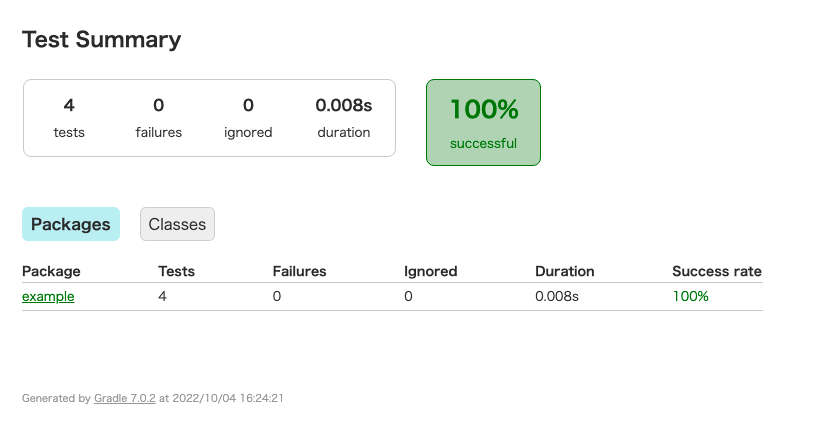
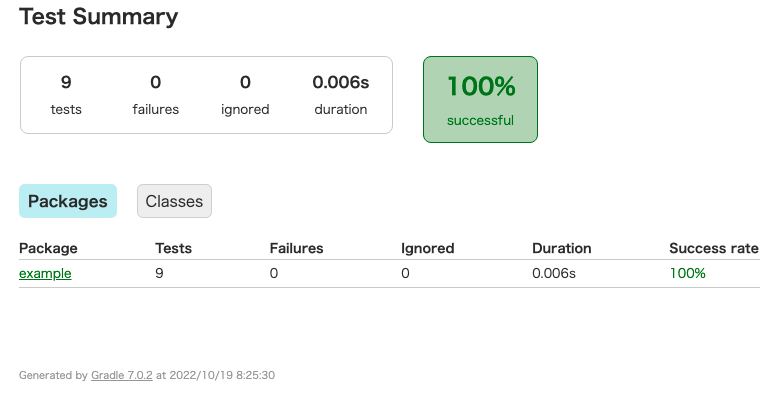
fix test

diff --git a/gradle/src/test/java/example/File0Test.java b/gradle/src/test/java/example/File0Test.java
@@ -1,0 +1,13 @@
+package example;
+
+import org.junit.Test;
+
+import static org.hamcrest.CoreMatchers.*;
+import static org.junit.Assert.*;
+
+public class File0Test {
+    @Test
+    public void calc() {
+        assertThat(new File0().calc(3, 4, 5), is(12));
+    }
+}

diff --git a/gradle/src/test/java/example/File1Test.java b/gradle/src/test/java/example/File1Test.java
@@ -1,0 +1,13 @@
+package example;
+
+import org.junit.Test;
+
+import static org.hamcrest.CoreMatchers.*;
+import static org.junit.Assert.*;
+
+public class File1Test {
+    @Test
+    public void calc() {
+        assertThat(new File1().calc(3, 4, 5), is(12));
+    }
+}

diff --git a/gradle/src/test/java/example/DB0Test.java b/gradle/src/test/java/example/DB0Test.java
@@ -1,0 +1,13 @@
+package example;
+
+import org.junit.Test;
+
+import static org.hamcrest.CoreMatchers.*;
+import static org.junit.Assert.*;
+
+public class DB0Test {
+    @Test
+    public void calc() {
+        assertThat(new DB0().calc(3, 4, 5), is(12));
+    }
+}

diff --git a/gradle/src/test/java/example/DB1Test.java b/gradle/src/test/java/example/DB1Test.java
@@ -1,0 +1,13 @@
+package example;
+
+import org.junit.Test;
+
+import static org.hamcrest.CoreMatchers.*;
+import static org.junit.Assert.*;
+
+public class DB1Test {
+    @Test
+    public void calc() {
+        assertThat(new DB1().calc(3, 4, 5), is(12));
+    }
+}

diff --git a/gradle/src/main/java/example/File0.java b/gradle/src/main/java/example/File0.java
@@ -1,0 +1,7 @@
+package example;
+
+public class File0 {
+    public int calc(int x, int y, int z) {
+        return x+y+z;
+    }
+}

diff --git a/gradle/src/main/java/example/File1.java b/gradle/src/main/java/example/File1.java
@@ -1,0 +1,7 @@
+package example;
+
+public class File1 {
+    public int calc(int x, int y, int z) {
+        return x+y+z;
+    }
+}

diff --git a/gradle/src/main/java/example/DB0.java b/gradle/src/main/java/example/DB0.java
@@ -1,0 +1,7 @@
+package example;
+
+public class DB0 {
+    public int calc(int x, int y, int z) {
+        return x+y+z;
+    }
+}

diff --git a/gradle/src/main/java/example/DB1.java b/gradle/src/main/java/example/DB1.java
@@ -1,0 +1,7 @@
+package example;
+
+public class DB1 {
+    public int calc(int x, int y, int z) {
+        return x+y+z;
+    }
+}
